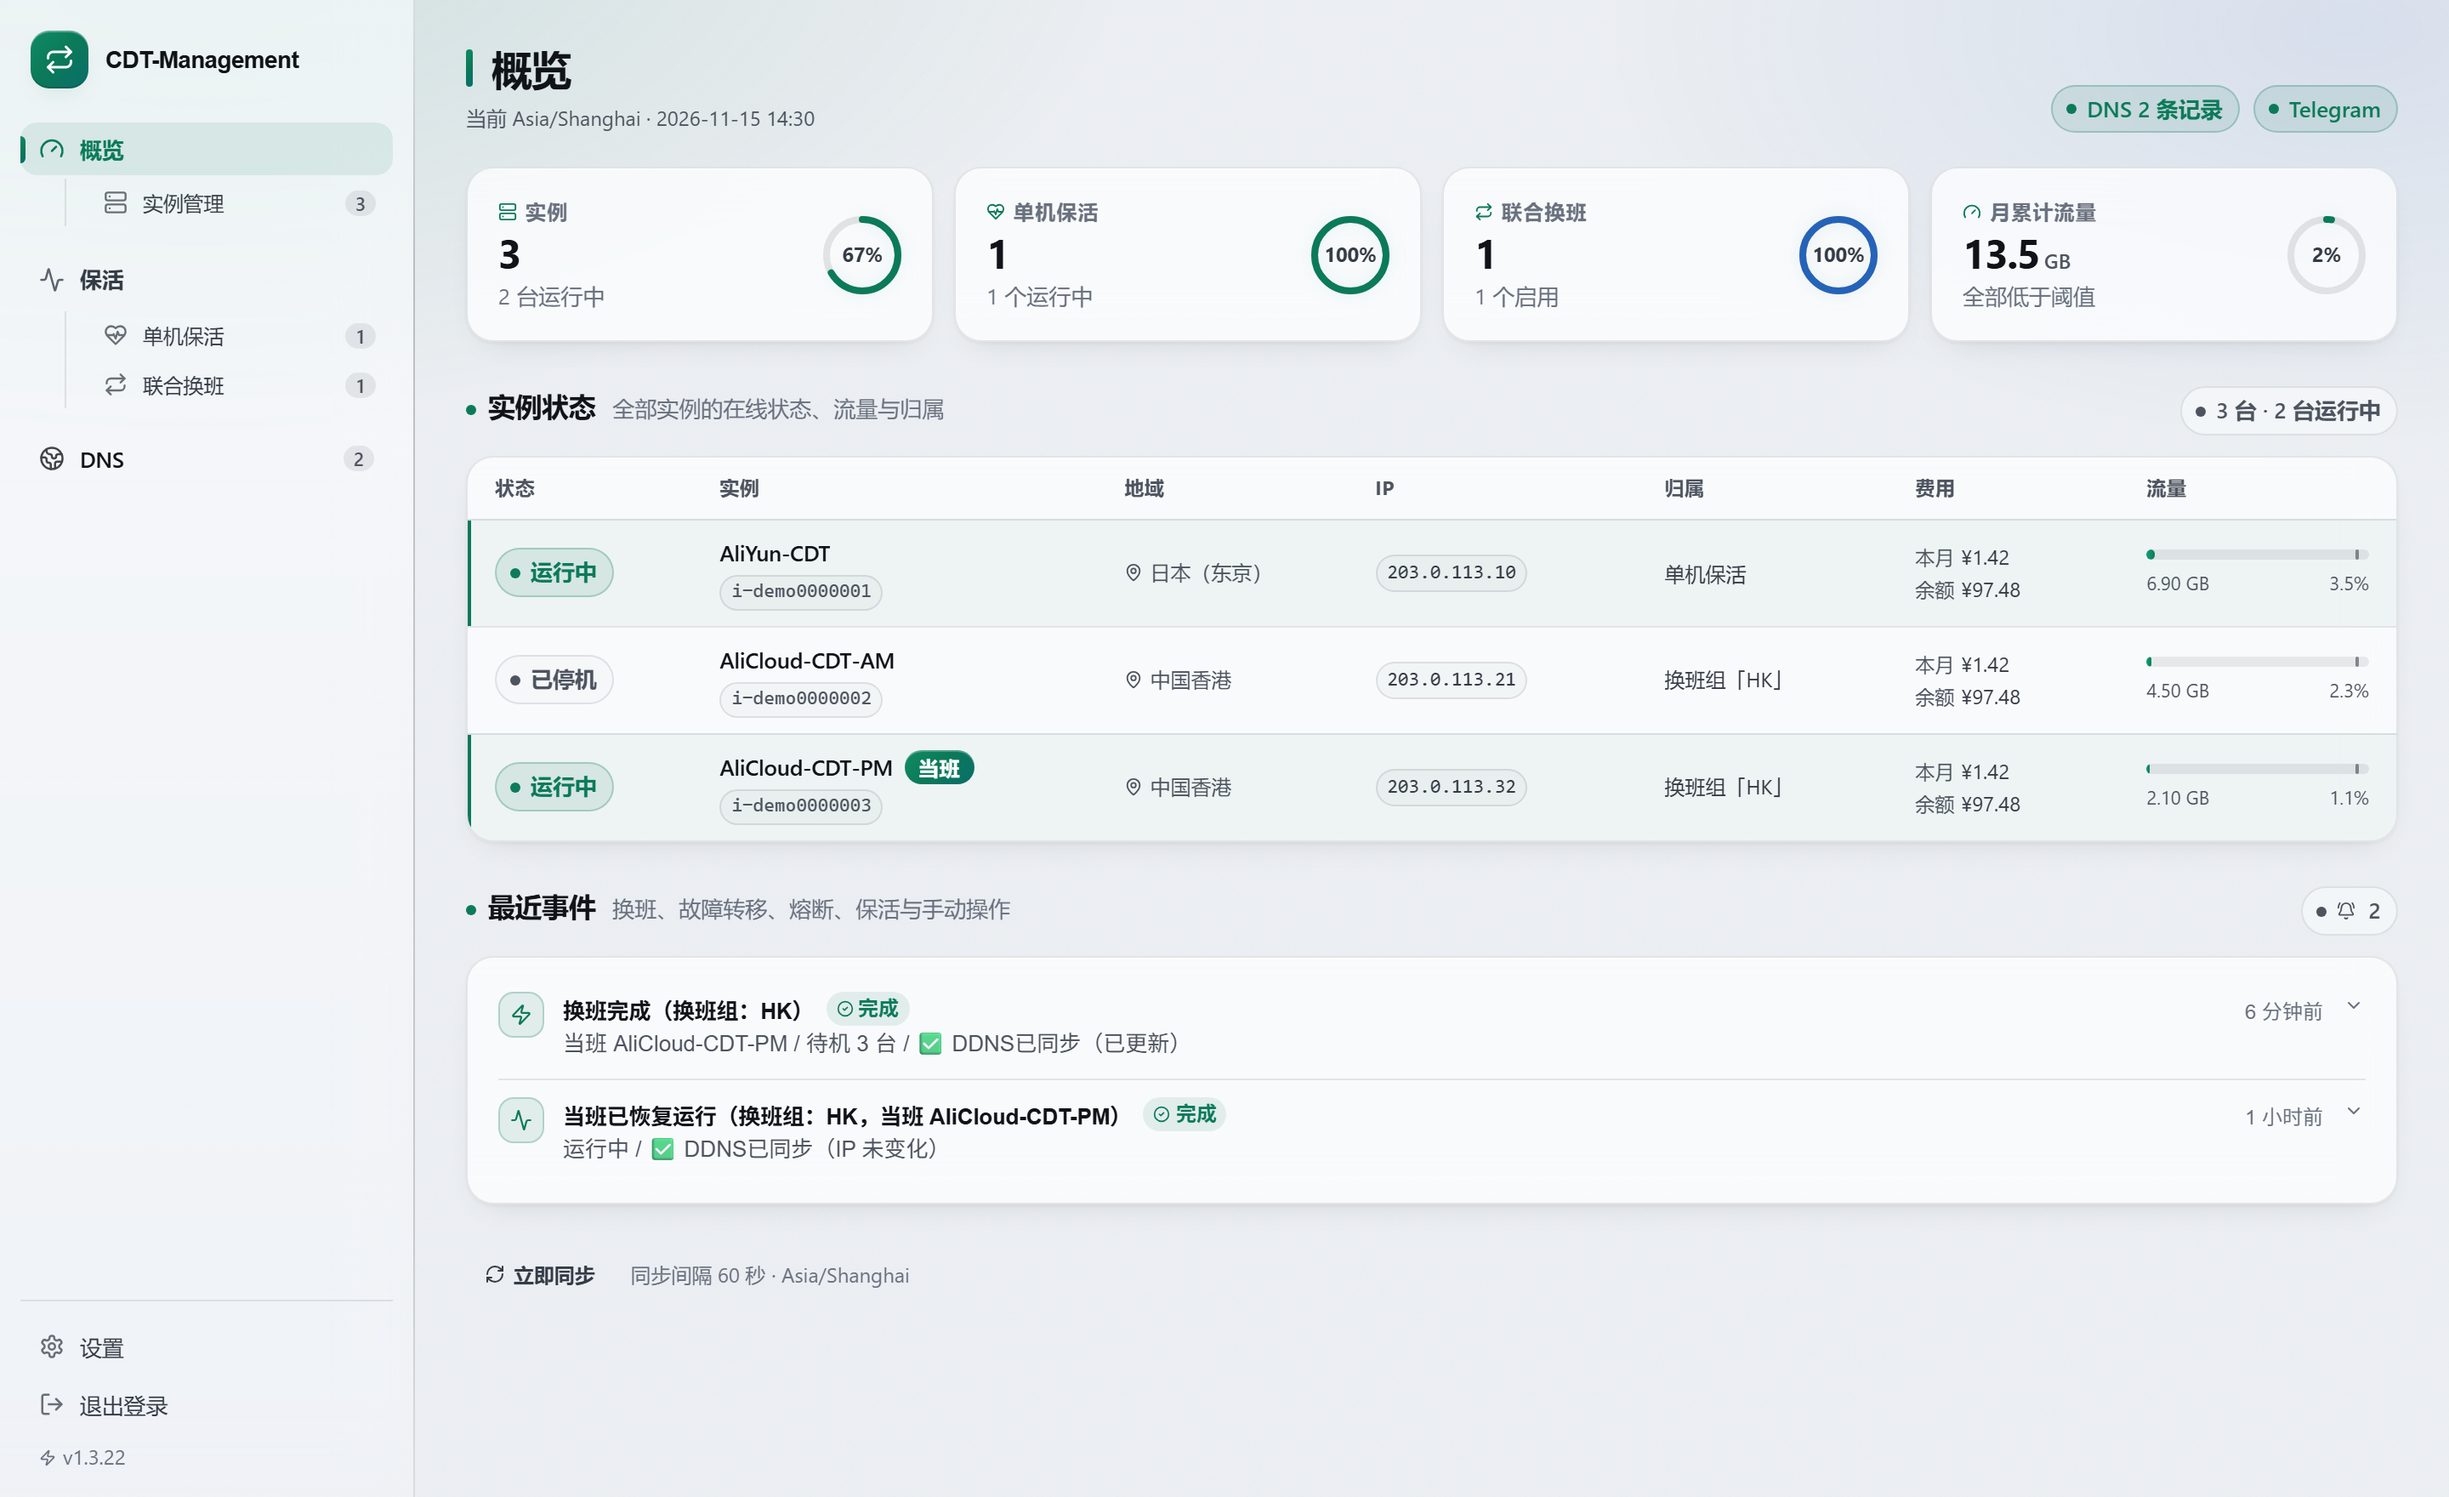
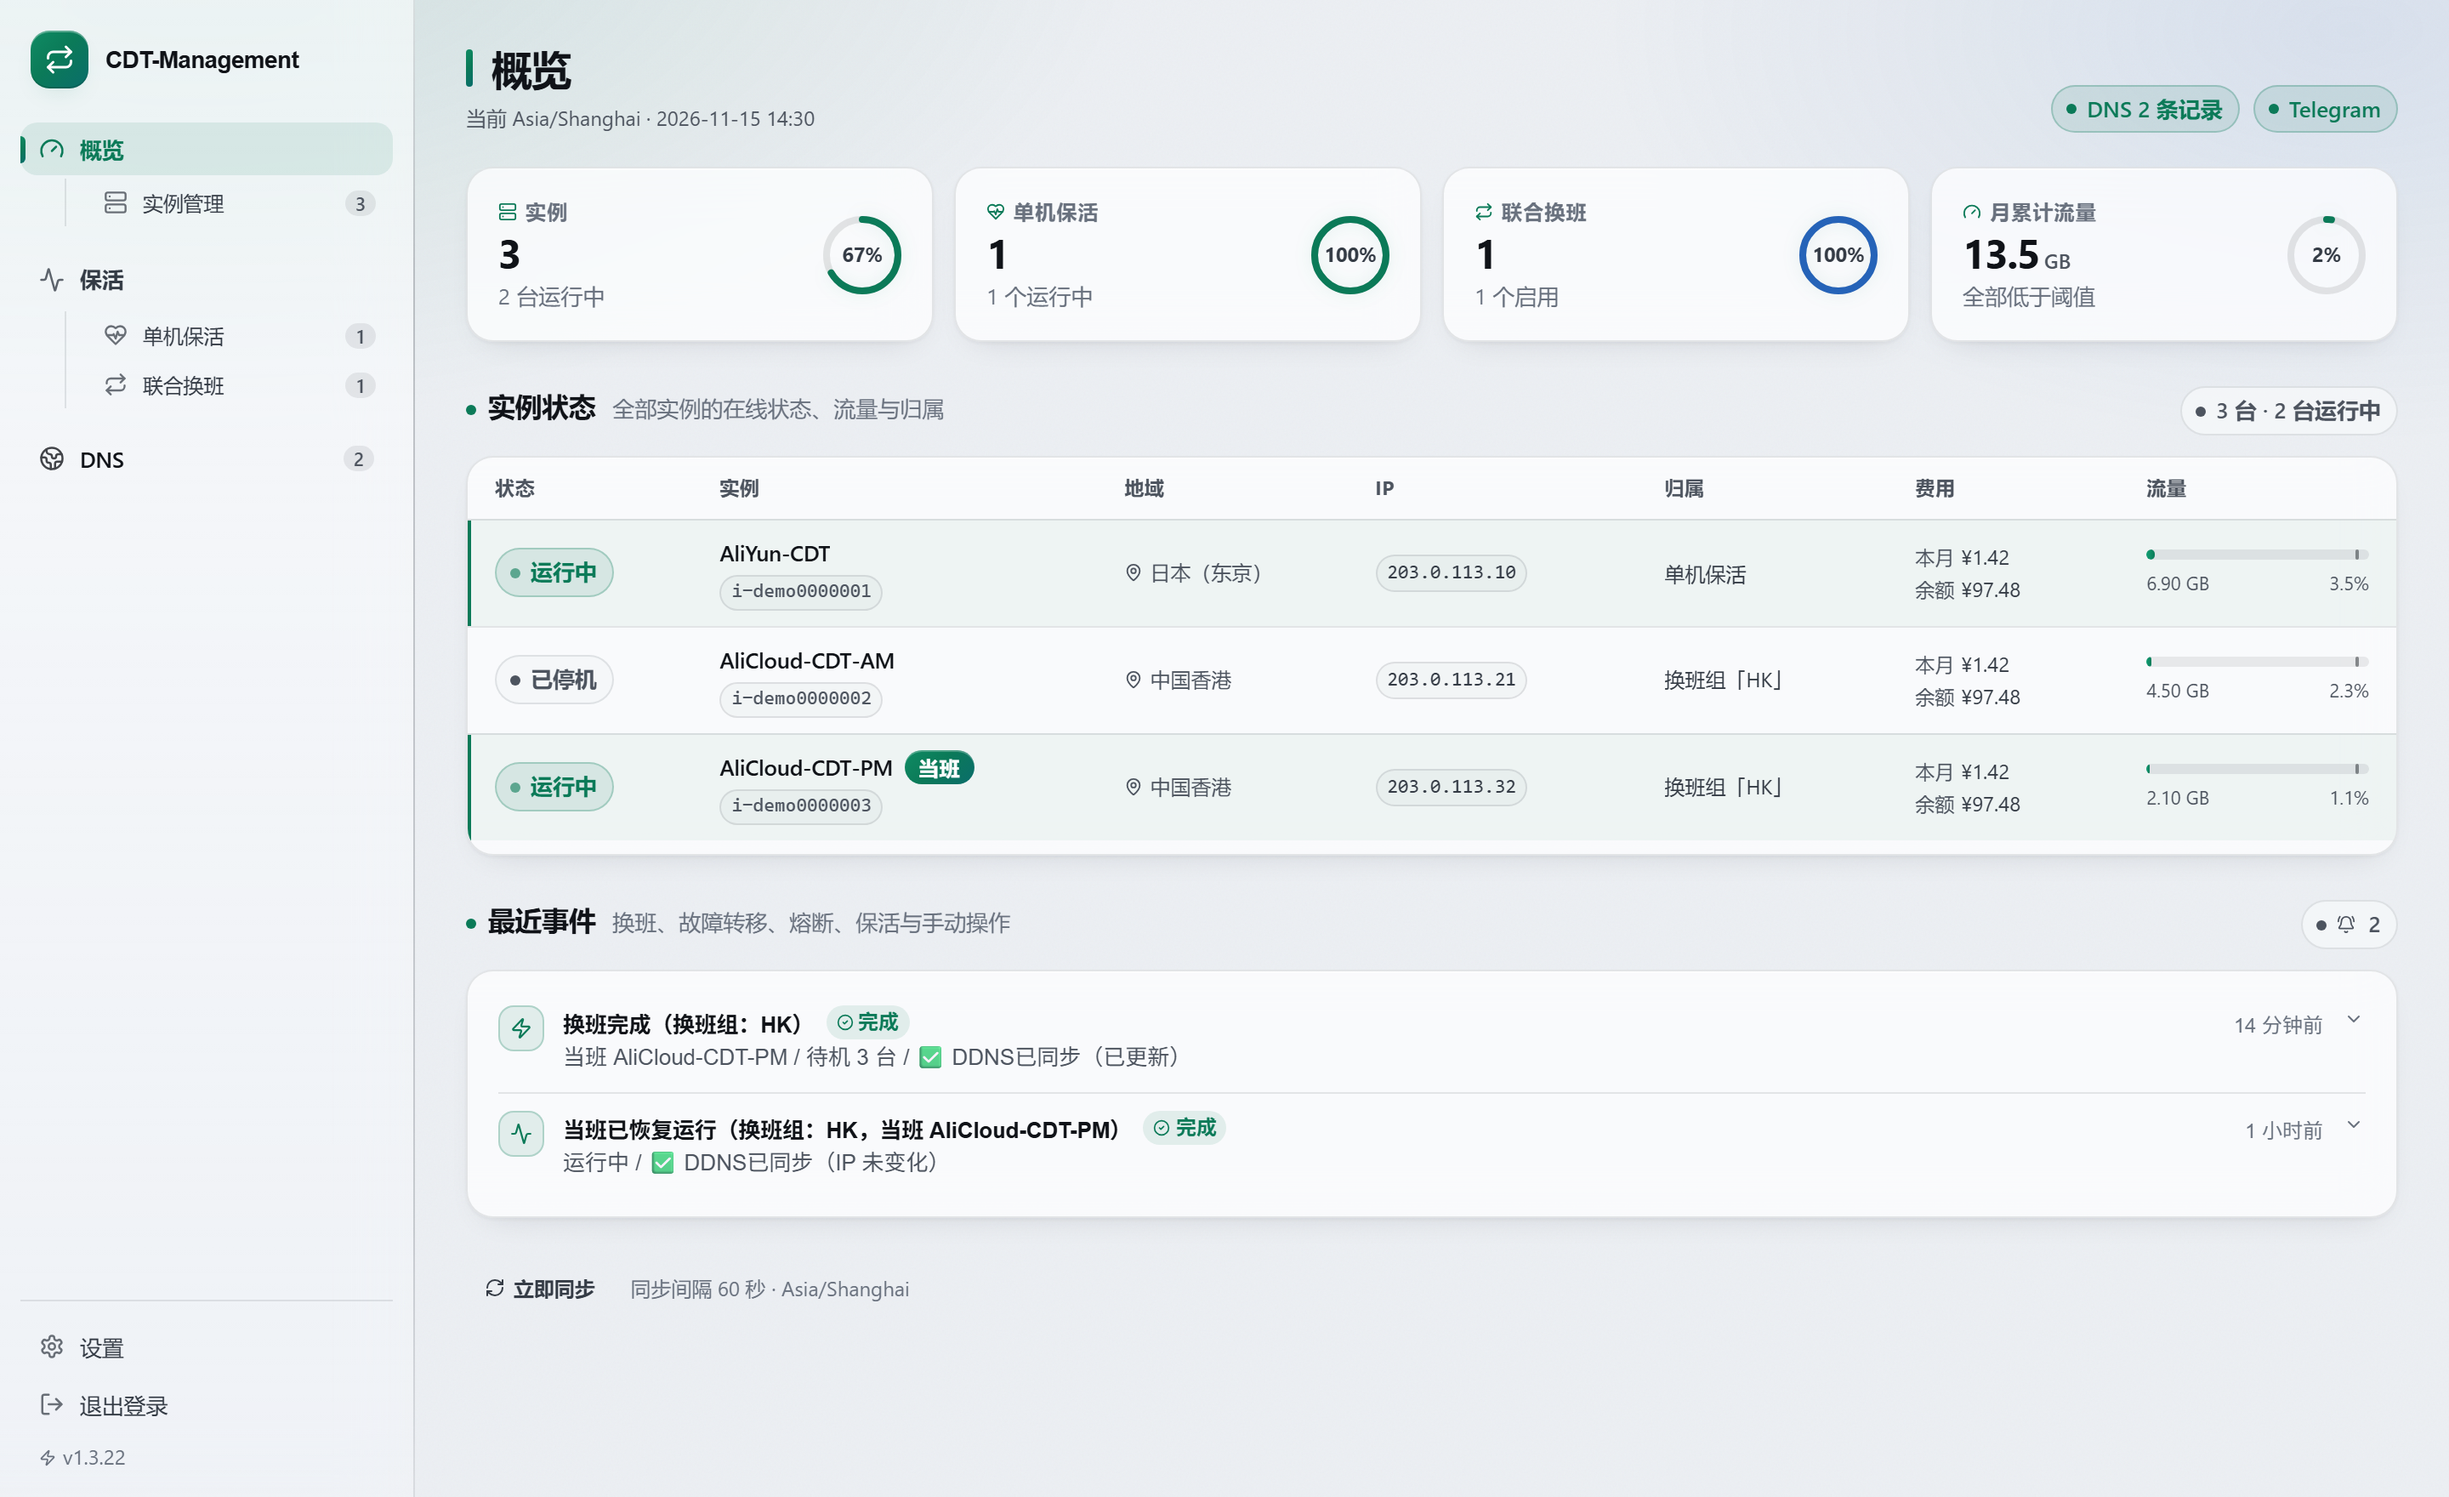
fix(web): 实例状态卡片底部留 8px 留白，最后一行不再顶到圆角
docs: 首页预览图按新布局重截

diff --git a/web/src/styles.css b/web/src/styles.css
@@ -2265,7 +2265,9 @@ input[type='number']::-webkit-inner-spin-button {
    表格只借用「列对齐」这件事——去掉表头底色和粗边框，只留细线和行悬停，
    免得在概览里突然出现一块「后台表格」的硬边 */
 .inst-list {
-  padding: 0;
+  /* 底部留 8px：表格最后一行常是运行中的浅绿行，直接顶到卡片圆角上
+     看着像被切了一刀，这点留白把色块和圆角分开 */
+  padding: 0 0 8px;
   /* 运行中行的底色 / 左缘强调条要贴着圆角裁掉，否则会在边角露直角 */
   overflow: hidden;
 }
